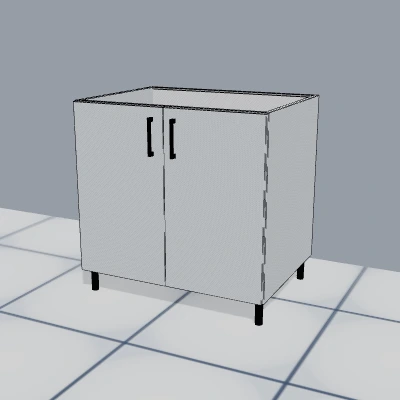
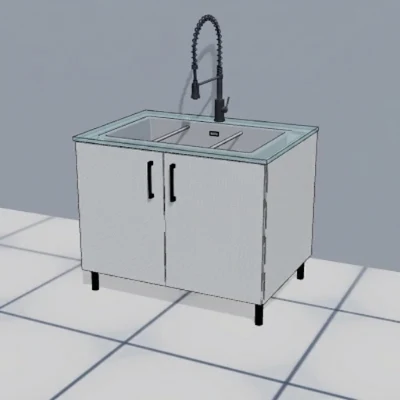
se arreglo el mueble que lleva el lavaplatos, se había eliminado en algún momento el de 2 puertas

diff --git a/src/pages/KitchenConfigurator.tsx b/src/pages/KitchenConfigurator.tsx
@@ -1378,7 +1378,7 @@ export function KitchenConfigurator({ onNavigate }: { onNavigate: () => void }) 
                    {(() => {
                      const searchQ = moduleSearchQuery.trim().toLowerCase();
                      const matchesQ = (label: string) => !searchQ || label.toLowerCase().includes(searchQ);
-                     const basesHasMatch = !searchQ || ['1 puerta', '1 pta + 1 cajón', '2 puertas', 'lavaplatos', 'encimera', '4 cajones', '2 cajones + 1 ollero', '2 caj. + 1 ollero', '2 olleros', 'fregadero', 'especiero', 'botellero', 'esquinero ciego', 'esquinero en l', 'bases'].some(s => s.includes(searchQ));
+                     const basesHasMatch = !searchQ || ['1 puerta', '1 pta + 1 cajón', '2 puertas', 'lavaplatos', 'encimera', '4 cajones', '2 cajones + 1 ollero', '2 caj. + 1 ollero', '2 olleros', 'especiero', 'botellero', 'esquinero ciego', 'esquinero en l', 'bases'].some(s => s.includes(searchQ));
                      const torresHasMatch = !searchQ || ['1 pta larga', '2 ptas', 'torre horno', 'torre hornos', 'despensa cajones', 'nicho micro', 'repisas a la vista', 'torre repisas', 'botellero despensa', 'despensa 2 puertas', 'torres'].some(s => s.includes(searchQ));
                      const muralesHasMatch = !searchQ || ['aéreo 1 puerta', 'aéreo 2 puertas', 'pta elevable', 'doble pta', 'nicho micro', 'repisas', 'esquinero', 'botellero', 'new flow 60', 'murales'].some(s => s.includes(searchQ));
                      const islaHasMatch = !searchQ || ['isla 2 olleros', 'isla 4 cajones', 'isla 2 caj', 'isla 1 puerta', 'isla 2 puertas', 'botellero isla', 'isla'].some(s => s.includes(searchQ));
@@ -1400,11 +1400,11 @@ export function KitchenConfigurator({ onNavigate }: { onNavigate: () => void }) 
                            <ModuleCategoryAccordion
                              id="bases"
                              title="1. Bases"
-                             count={14}
+                             count={13}
                              icon={<Box size={14} />}
                              isOpen={Boolean(moduleAccordions.bases || searchQ)}
                              onToggle={() => toggleModuleAccordion('bases')}
-                             hasActiveTool={['place_base_1_door', 'place_base_1_door_1_drawer', 'place_base_2_doors', 'place_base_sink_2_doors', 'place_base_cooktop_3_drawers', 'place_base_4_drawers', 'place_base_3_drawers_veggie', 'place_base_2_pot_drawers', 'place_base_2_drawers_1_pot', 'place_base_sink_u_drawer', 'place_base_spice_rack', 'place_base_wine_rack', 'place_base_corner_blind', 'place_base_corner_l'].includes(toolMode)}
+                             hasActiveTool={['place_base_1_door', 'place_base_1_door_1_drawer', 'place_base_2_doors', 'place_base_sink_2_doors', 'place_base_cooktop_3_drawers', 'place_base_4_drawers', 'place_base_3_drawers_veggie', 'place_base_2_pot_drawers', 'place_base_2_drawers_1_pot', 'place_base_spice_rack', 'place_base_wine_rack', 'place_base_corner_blind', 'place_base_corner_l'].includes(toolMode)}
                              isLight={isLight}
                            >
                              {matchesQ('1 Puerta') && <ToolButton isLight={isLight} active={toolMode === 'place_base_1_door'} onClick={() => handleInsertModule('place_base_1_door')} previewToolId="place_base_1_door" onHoverPreview={setHoveredModulePreview} icon={<Box size={14}/>} label="1 Puerta" />}
@@ -1416,7 +1416,6 @@ export function KitchenConfigurator({ onNavigate }: { onNavigate: () => void }) 
                              {matchesQ('Verdulero 3 Cajones') && <ToolButton isLight={isLight} active={toolMode === 'place_base_3_drawers_veggie'} onClick={() => handleInsertModule('place_base_3_drawers_veggie')} previewToolId="place_base_3_drawers_veggie" onHoverPreview={setHoveredModulePreview} icon={<Box size={14}/>} label="Verdulero 3 Cajones" />}
                              {matchesQ('2 Olleros') && <ToolButton isLight={isLight} active={toolMode === 'place_base_2_pot_drawers'} onClick={() => handleInsertModule('place_base_2_pot_drawers')} previewToolId="place_base_2_pot_drawers" onHoverPreview={setHoveredModulePreview} icon={<Box size={14}/>} label="2 Olleros" />}
                              {(matchesQ('2 Cajones + 1 Ollero') || matchesQ('2 Caj. + 1 Ollero')) && <ToolButton isLight={isLight} active={toolMode === 'place_base_2_drawers_1_pot'} onClick={() => handleInsertModule('place_base_2_drawers_1_pot')} previewToolId="place_base_2_drawers_1_pot" onHoverPreview={setHoveredModulePreview} icon={<LayoutGrid size={14}/>} label="2 Caj. + 1 Ollero" />}
-                             {matchesQ('Fregadero Cajón en U') && <ToolButton isLight={isLight} active={toolMode === 'place_base_sink_u_drawer'} onClick={() => handleInsertModule('place_base_sink_u_drawer')} previewToolId="place_base_sink_u_drawer" onHoverPreview={setHoveredModulePreview} icon={<Box size={14}/>} label="Fregadero Cajón en U" />}
                              {matchesQ('Especiero') && <ToolButton isLight={isLight} active={toolMode === 'place_base_spice_rack'} onClick={() => handleInsertModule('place_base_spice_rack')} previewToolId="place_base_spice_rack" onHoverPreview={setHoveredModulePreview} icon={<Box size={14}/>} label="Especiero" />}
                              {matchesQ('Botellero Base') && <ToolButton isLight={isLight} active={toolMode === 'place_base_wine_rack'} onClick={() => handleInsertModule('place_base_wine_rack')} previewToolId="place_base_wine_rack" onHoverPreview={setHoveredModulePreview} icon={<Wine size={14}/>} label="Botellero Base" />}
                              {matchesQ('Esquinero Ciego') && <ToolButton isLight={isLight} active={toolMode === 'place_base_corner_blind'} onClick={() => handleInsertModule('place_base_corner_blind')} previewToolId="place_base_corner_blind" onHoverPreview={setHoveredModulePreview} icon={<Box size={14}/>} label="Esquinero Ciego" />}

diff --git a/src/utils/kitchenAiCatalog.ts b/src/utils/kitchenAiCatalog.ts
@@ -86,7 +86,6 @@ export const AI_ALLOWED_MODULES: AiModuleCatalogEntry[] = [
   { tool: 'place_base_spice_rack', category: 'base', name: 'Base Especiero Extraíble', variant: 'spice_rack', defaultWidth: 20, minWidth: 15, maxWidth: 30, defaultHeight: 80, minHeight: 70, maxHeight: 100, defaultDepth: 60, minDepth: 45, maxDepth: 80, notes: 'Ancho estricto 15-30cm' },
   { tool: 'place_base_wine_rack', category: 'base', name: 'Botellero Base', variant: 'wine_rack', defaultWidth: 20, minWidth: 15, maxWidth: 40, defaultHeight: 80, minHeight: 70, maxHeight: 100, defaultDepth: 60, minDepth: 35, maxDepth: 80 },
   { tool: 'place_base_sink_2_doors', category: 'base', name: 'Base Lavaplatos (2 Puertas)', variant: 'base_sink_2_doors', defaultWidth: 80, minWidth: 80, maxWidth: 120, defaultHeight: 80, minHeight: 70, maxHeight: 100, defaultDepth: 60, minDepth: 55, maxDepth: 80, notes: 'Obligatorio para lavaplatos: >=80cm (1 tina) o >=90cm (2 tinas)' },
-  { tool: 'place_base_sink_u_drawer', category: 'base', name: 'Fregadero Cajón en U', variant: 'sink_u_drawer', defaultWidth: 90, minWidth: 80, maxWidth: 120, defaultHeight: 80, minHeight: 70, maxHeight: 100, defaultDepth: 60, minDepth: 55, maxDepth: 80, notes: 'Compatible con lavaplatos y sifón' },
   { tool: 'place_base_cooktop_3_drawers', category: 'base', name: 'Base Encimera (3 Cajones, 1° Fijo)', variant: 'base_cooktop_3_drawers', defaultWidth: 80, minWidth: 80, maxWidth: 120, defaultHeight: 80, minHeight: 70, maxHeight: 100, defaultDepth: 60, minDepth: 55, maxDepth: 80, notes: 'Mínimo normativo 80cm (90cm para encimera FDV 90 de 5 platos)' },
   { tool: 'place_base_corner_blind', category: 'base', name: 'Base Esquinero Ciego', variant: 'corner_blind_right', defaultWidth: 110, minWidth: 95, maxWidth: 140, defaultHeight: 80, minHeight: 70, maxHeight: 100, defaultDepth: 60, minDepth: 55, maxDepth: 80, notes: 'Usar en esquinas de cocinas en L o U' },
   { tool: 'place_base_corner_l', category: 'base', name: 'Base Esquinero en L (90x90)', variant: 'corner_l', defaultWidth: 90, minWidth: 90, maxWidth: 90, defaultHeight: 80, minHeight: 70, maxHeight: 100, defaultDepth: 90, minDepth: 90, maxDepth: 90, fixedWidth: true, notes: 'MEDIDA FIJA 90x90cm en esquinas de cocinas en L o U' },
@@ -409,6 +408,10 @@ export function resolveApprovedModuleTool(toolOrVariant?: string): {
   wasFallback: boolean;
 } {
   const normalized = (toolOrVariant || '').trim().toLowerCase();
+  if (normalized === 'place_base_sink_u_drawer' || normalized === 'sink_u_drawer' || normalized === 'base_sink_u_drawer') {
+    const sink2Doors = AI_ALLOWED_MODULES.find((m) => m.tool === 'place_base_sink_2_doors')!;
+    return { entry: sink2Doors, specs: getCabinetSpecsFromTool(sink2Doors.tool), wasFallback: false };
+  }
   const exactTool = AI_ALLOWED_MODULES.find((m) => m.tool.toLowerCase() === normalized);
   if (exactTool) {
     return { entry: exactTool, specs: getCabinetSpecsFromTool(exactTool.tool), wasFallback: false };

diff --git a/src/components/kitchen/KitchenModuleContextMenu.tsx b/src/components/kitchen/KitchenModuleContextMenu.tsx
@@ -1360,7 +1360,9 @@ export function KitchenModuleContextMenu({
                 activeCabinet.variant?.includes('wine_rack') ? 15 :
                 activeCabinet.variant?.startsWith('wall_corner_blind') ? 60 :
                 (activeCabinet.variant?.startsWith('corner_blind') ? 80 :
-                 (activeCabinet.variant === 'base_sink_2_doors' || activeCabinet.variant === 'base_cooktop_3_drawers' ? 80 : 30))
+                 ((activeCabinet.variant === 'base_sink_2_doors' || activeCabinet.variant === 'sink_2_doors')
+                  ? (countertopConfig.sinkModel === 'alfa_twoc_f5858a' && (!countertopConfig.sinkCabinetId || countertopConfig.sinkCabinetId === activeCabinet.id) ? 90 : 80)
+                  : (activeCabinet.variant === 'base_cooktop_3_drawers' ? 80 : 30)))
               }
               maxCm={
                 activeCabinet.variant === 'wall_hood_new_flow' ? 60 :
@@ -1408,7 +1410,7 @@ export function KitchenModuleContextMenu({
               isLight={isLight}
               label={activeCabinet.variant === 'tall_terminal_shelves' ? 'Profundidad de Repisas (Saliente)' : 'Profundidad'}
               valueCm={activeCabinet.depth}
-              minCm={activeCabinet.variant === 'wall_hood_new_flow' ? 32 : (activeCabinet.variant === 'tall_terminal_shelves' ? 15 : (activeCabinet.type === 'closet' ? 40 : (activeCabinet.type === 'island' ? 30 : 25)))}
+              minCm={activeCabinet.variant === 'wall_hood_new_flow' ? 32 : (activeCabinet.variant === 'tall_terminal_shelves' ? 15 : ((activeCabinet.variant === 'base_sink_2_doors' || activeCabinet.variant === 'sink_2_doors') ? 55 : (activeCabinet.type === 'closet' ? 40 : (activeCabinet.type === 'island' ? 30 : 25))))}
               maxCm={activeCabinet.variant === 'wall_hood_new_flow' ? 40 : (activeCabinet.variant === 'tall_terminal_shelves' ? 50 : (activeCabinet.type === 'closet' ? 80 : (activeCabinet.type === 'island' ? 120 : 80)))}
               stepMm={1}
               onChangeCm={(val) => updateCabinet(activeCabinet.id, { depth: val })}

diff --git a/api/kitchen-ai-agent.ts b/api/kitchen-ai-agent.ts
@@ -141,7 +141,7 @@ REGLAS INQUEBRANTABLES (OBLIGATORIAS EN TODO MOMENTO)
    - **ANCHOS DE PUERTAS Y EQUIPOS:**
      * Módulos de 1 puerta (place_base_1_door, place_base_1_door_1_drawer, place_wall_1_door, place_tall_1_door, place_tall_split_2_doors, place_tall_inner_drawers): ancho máximo 60 cm.
      * Especiero (place_base_spice_rack): ancho entre 15 y 30 cm.
-     * Lavaplatos: SOLO en place_base_sink_2_doors o place_base_sink_u_drawer. Ancho >= 80 cm para "alfa_onec_3018" (1 tina) y >= 90 cm para "alfa_twoc_f5858a" (2 tinas). Marca hasSink: true en ese módulo y sinkModel en finishes.
+     * Lavaplatos: SOLO en place_base_sink_2_doors (Base Lavaplatos 2 Puertas). Ancho >= 80 cm para "alfa_onec_3018" (1 tina) y >= 90 cm para "alfa_twoc_f5858a" (2 tinas). Marca hasSink: true en ese módulo y sinkModel en finishes.
      * Encimera: SOLO en place_base_cooktop_3_drawers (ancho mínimo 80 cm; >= 90 cm para "fdv_design_90" de 5 platos). Marca hasCooktop: true en ese módulo y cooktopModel en finishes.
    - **ESQUINAS, TORRES Y ZONAS DE APERTURA (CRÍTICO — CERO PUERTAS BLOQUEADAS):**
      * JAMÁS coloques un mueble base normal (ej. place_base_1_door, cajoneras) ni un mueble aéreo encerrado en una esquina donde en el muro perpendicular hay una Torre Despensa, Torre Horno o Refrigerador: esa torre ocupa los primeros 65-75 cm del muro adyacente en TODA su altura (bases y aéreos) e impediría abrir la puerta.

diff --git a/src/components/kitchen/KitchenCountertop3D.tsx b/src/components/kitchen/KitchenCountertop3D.tsx
@@ -982,7 +982,6 @@ export function KitchenCountertop3D() {
     const accessoryCabinets = cabinets.filter((c) =>
       c.variant === 'base_sink_2_doors' ||
       c.variant === 'sink_2_doors' ||
-      c.variant === 'sink_u_drawer' ||
       c.id === countertopConfig.sinkCabinetId ||
       c.variant === 'base_cooktop_3_drawers' ||
       c.variant === 'cooktop_3_drawers' ||
@@ -997,7 +996,6 @@ export function KitchenCountertop3D() {
           const isSink =
             cab.variant === 'base_sink_2_doors' ||
             cab.variant === 'sink_2_doors' ||
-            cab.variant === 'sink_u_drawer' ||
             cab.id === countertopConfig.sinkCabinetId;
 
           const isCooktop =
@@ -1141,8 +1139,7 @@ export function KitchenCountertop3D() {
         const sinkCabinet = run.cabinets.find(
           (c) => c.id === countertopConfig.sinkCabinetId ||
                  c.variant === 'base_sink_2_doors' ||
-                 c.variant === 'sink_2_doors' ||
-                 c.variant === 'sink_u_drawer'
+                 c.variant === 'sink_2_doors'
         );
         const cooktopCabinet = run.cabinets.find(
           (c) => c.id === countertopConfig.cooktopCabinetId ||

diff --git a/src/utils/countertopNesting.ts b/src/utils/countertopNesting.ts
@@ -571,8 +571,7 @@ function computeSafeSegmentLengthsMm(
     const isSink =
       cab.id === config?.sinkCabinetId ||
       cab.variant === 'base_sink_2_doors' ||
-      cab.variant === 'sink_2_doors' ||
-      cab.variant === 'sink_u_drawer';
+      cab.variant === 'sink_2_doors';
 
     const isCooktop =
       cab.id === config?.cooktopCabinetId ||
@@ -1298,7 +1297,7 @@ export function generateCountertopPieces(
           : (config.baseWaterfallRight ?? config.waterfallRight));
 
     // Chequear si esta corrida contiene encastre de lavaplatos o encimera
-    const sinkCab = run.cabinets.find((c) => c.id === config.sinkCabinetId || c.variant === 'base_sink_2_doors' || c.variant === 'sink_2_doors' || c.variant === 'sink_u_drawer');
+    const sinkCab = run.cabinets.find((c) => c.id === config.sinkCabinetId || c.variant === 'base_sink_2_doors' || c.variant === 'sink_2_doors');
     const cooktopCab = run.cabinets.find((c) => c.id === config.cooktopCabinetId || c.variant === 'base_cooktop_3_drawers' || c.variant === 'cooktop_3_drawers');
 
     let sinkDistFromRunLeftMm: number | null = null;

diff --git a/src/utils/kitchenAiExecutor.ts b/src/utils/kitchenAiExecutor.ts
@@ -1350,7 +1350,7 @@ export function executeFullDesignAction(design: AiFullDesignAction): AiExecution
 
     // Validar ancho mínimo si trae lavaplatos o encimera asignados (solo si el módulo NO es de ancho fijo)
     if (!entry.fixedWidth) {
-      if (item.hasSink || entry.variant === 'base_sink_2_doors' || entry.variant === 'sink_u_drawer') {
+      if (item.hasSink || entry.variant === 'base_sink_2_doors') {
         const minSinkW = design.finishes?.sinkModel === 'alfa_twoc_f5858a' ? 90 : 80;
         if (width < minSinkW) width = clamp(minSinkW, entry.minWidth, entry.maxWidth);
       }
@@ -1486,7 +1486,7 @@ export function executeFullDesignAction(design: AiFullDesignAction): AiExecution
           structTexture
         );
         placedCabinets.push(cab);
-        if (item.hasSink || cab.variant === 'base_sink_2_doors' || cab.variant === 'sink_u_drawer') {
+        if (item.hasSink || cab.variant === 'base_sink_2_doors') {
           sinkCabinetId = cab.id;
         }
         if (item.hasCooktop || cab.variant === 'base_cooktop_3_drawers') {

diff --git a/src/store/kitchenStore.ts b/src/store/kitchenStore.ts
@@ -1623,7 +1623,6 @@ export const useKitchenStore = create<KitchenState>((set, get) => {
     const isSinkCompatible =
       cab.variant === 'base_sink_2_doors' ||
       cab.variant === 'sink_2_doors' ||
-      cab.variant === 'sink_u_drawer' ||
       cab.variant === '2_doors';
 
     if (!isSinkCompatible) {
@@ -1930,7 +1929,7 @@ export const useKitchenStore = create<KitchenState>((set, get) => {
     if (clash.autoFixAction === 'convert_to_u_drawer' && clash.cabinetId) {
       return {
         cabinets: s.cabinets.map((c) =>
-          c.id === clash.cabinetId ? { ...c, variant: 'sink_u_drawer' } : c
+          c.id === clash.cabinetId ? { ...c, variant: 'base_sink_2_doors', shelvesCount: 0 } : c
         ),
       };
     }
